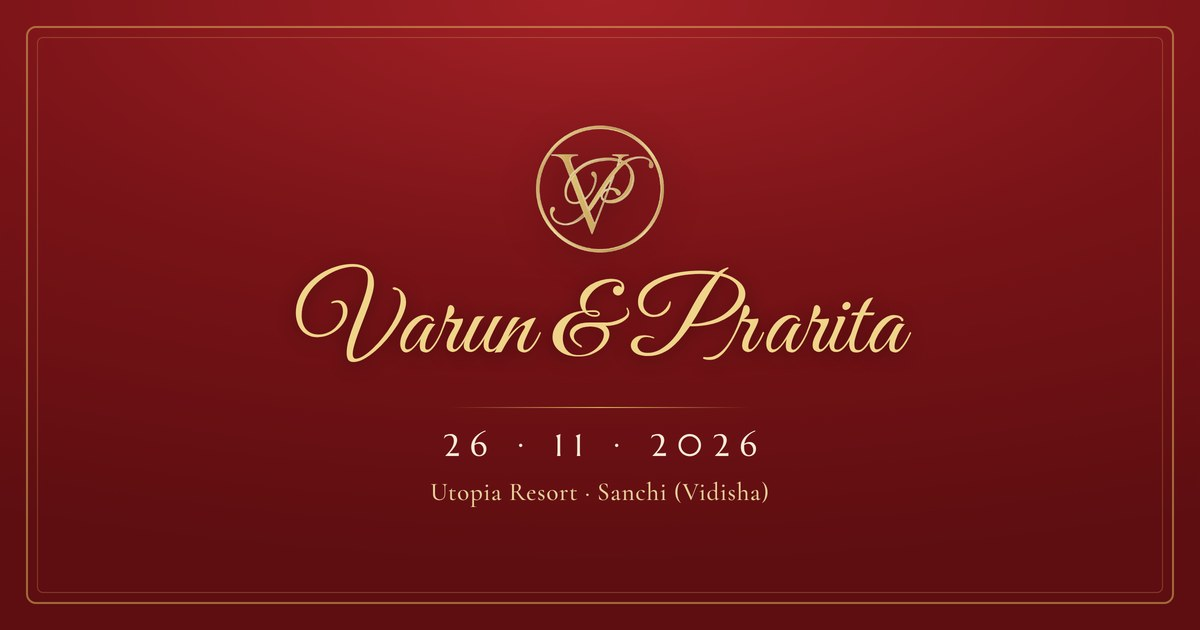
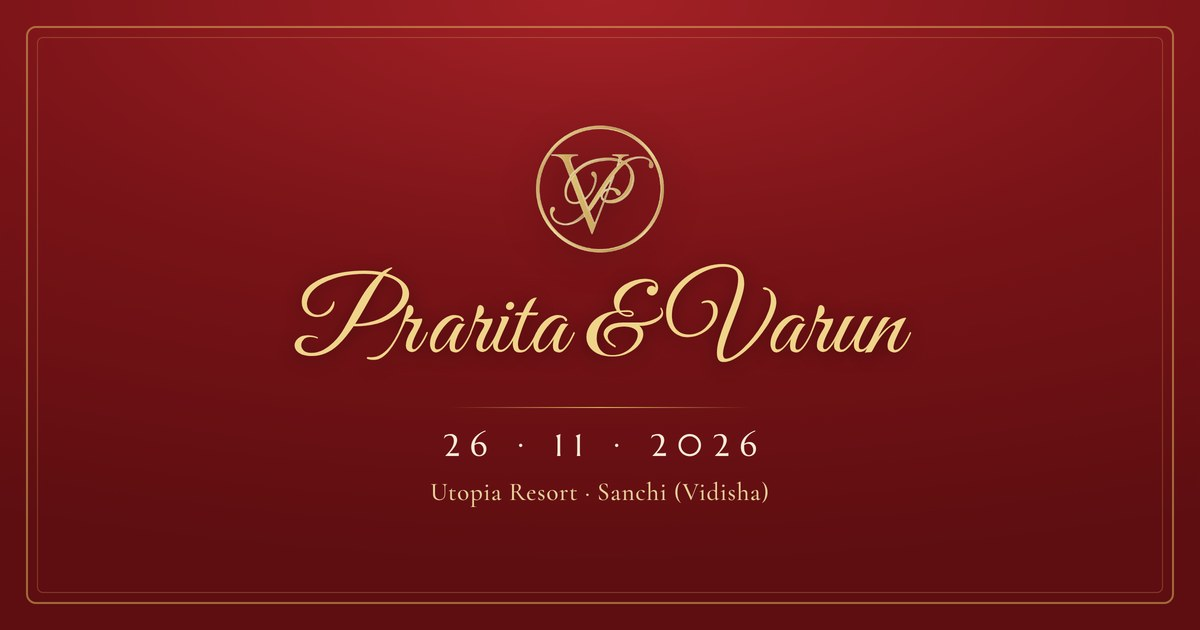
Title the site Prarita weds Varun, matching the domain
The domain reads praritawedsvarun.online while the browser tab, the shared
card and the accessible heading all said the other order. Those now match
the URL: the title tag, og:title, og:site_name, the meta description, the
visually-hidden h1 and the README heading, plus the share card image, which
is the title's picture and would otherwise contradict it.

Left alone deliberately, being content rather than the site's title: the
envelope card and couple section, which order the names against their
parents' lines; the #VarunWedsPrarita hashtag, which may already be in
circulation; and the calendar event and RSVP message text.

Claude-Session: https://claude.ai/code/session_01Hw8XujHcVPauPH3hdS13vF

Changed region(s): [[0.2467, 0.4222, 0.7708, 0.573]]

diff --git a/index.html b/index.html
@@ -3,14 +3,14 @@
 <head>
 <meta charset="UTF-8">
 <meta name="viewport" content="width=device-width, initial-scale=1.0, viewport-fit=cover">
-<title>Varun weds Prarita — 26 November 2026</title>
-<meta name="description" content="With the blessings of our families, we invite you to the wedding celebrations of Varun & Prarita — 23rd to 26th November 2026, Bhopal & Sanchi.">
+<title>Prarita weds Varun — 26 November 2026</title>
+<meta name="description" content="With the blessings of our families, we invite you to the wedding celebrations of Prarita & Varun — 23rd to 26th November 2026, Bhopal & Sanchi.">
 <!-- WhatsApp and other crawlers do not resolve relative og:image paths, so these
      are absolute. They also cache a URL's card hard, so get them right first. -->
 <meta property="og:type" content="website">
-<meta property="og:site_name" content="Varun weds Prarita">
+<meta property="og:site_name" content="Prarita weds Varun">
 <meta property="og:url" content="https://praritawedsvarun.online/">
-<meta property="og:title" content="Varun weds Prarita">
+<meta property="og:title" content="Prarita weds Varun">
 <meta property="og:description" content="Join us for the wedding celebrations — 26 November 2026, Utopia Resort, Sanchi (Vidisha).">
 <meta property="og:image" content="https://praritawedsvarun.online/assets/og-card.jpg">
 <meta property="og:image:width" content="1200">

diff --git a/src/components/Hero.jsx b/src/components/Hero.jsx
@@ -101,7 +101,7 @@ export default function Hero() {
       </motion.div>
       <div className="hero__vignette" aria-hidden="true" />
 
-      <h1 className="visually-hidden">Varun weds Prarita — 26 November 2026</h1>
+      <h1 className="visually-hidden">Prarita weds Varun — 26 November 2026</h1>
 
       <a className="hero__scroll" href="#invocation" aria-label="Scroll to open the invitation">
         <span className="hero__scroll-text">Scroll to Open Invitation</span>

diff --git a/README.md b/README.md
@@ -1,7 +1,7 @@
-# Varun weds Prarita — Wedding E-Invite
+# Prarita weds Varun — Wedding E-Invite
 
 A mobile-first React wedding invitation website for the celebrations of
-**Varun & Prarita**, 26th November 2026 · Utopia Resort, Sanchi (Vidisha).
+**Prarita & Varun**, 26th November 2026 · Utopia Resort, Sanchi (Vidisha).
 
 **Live site:** https://praritawedsvarun.online
 
